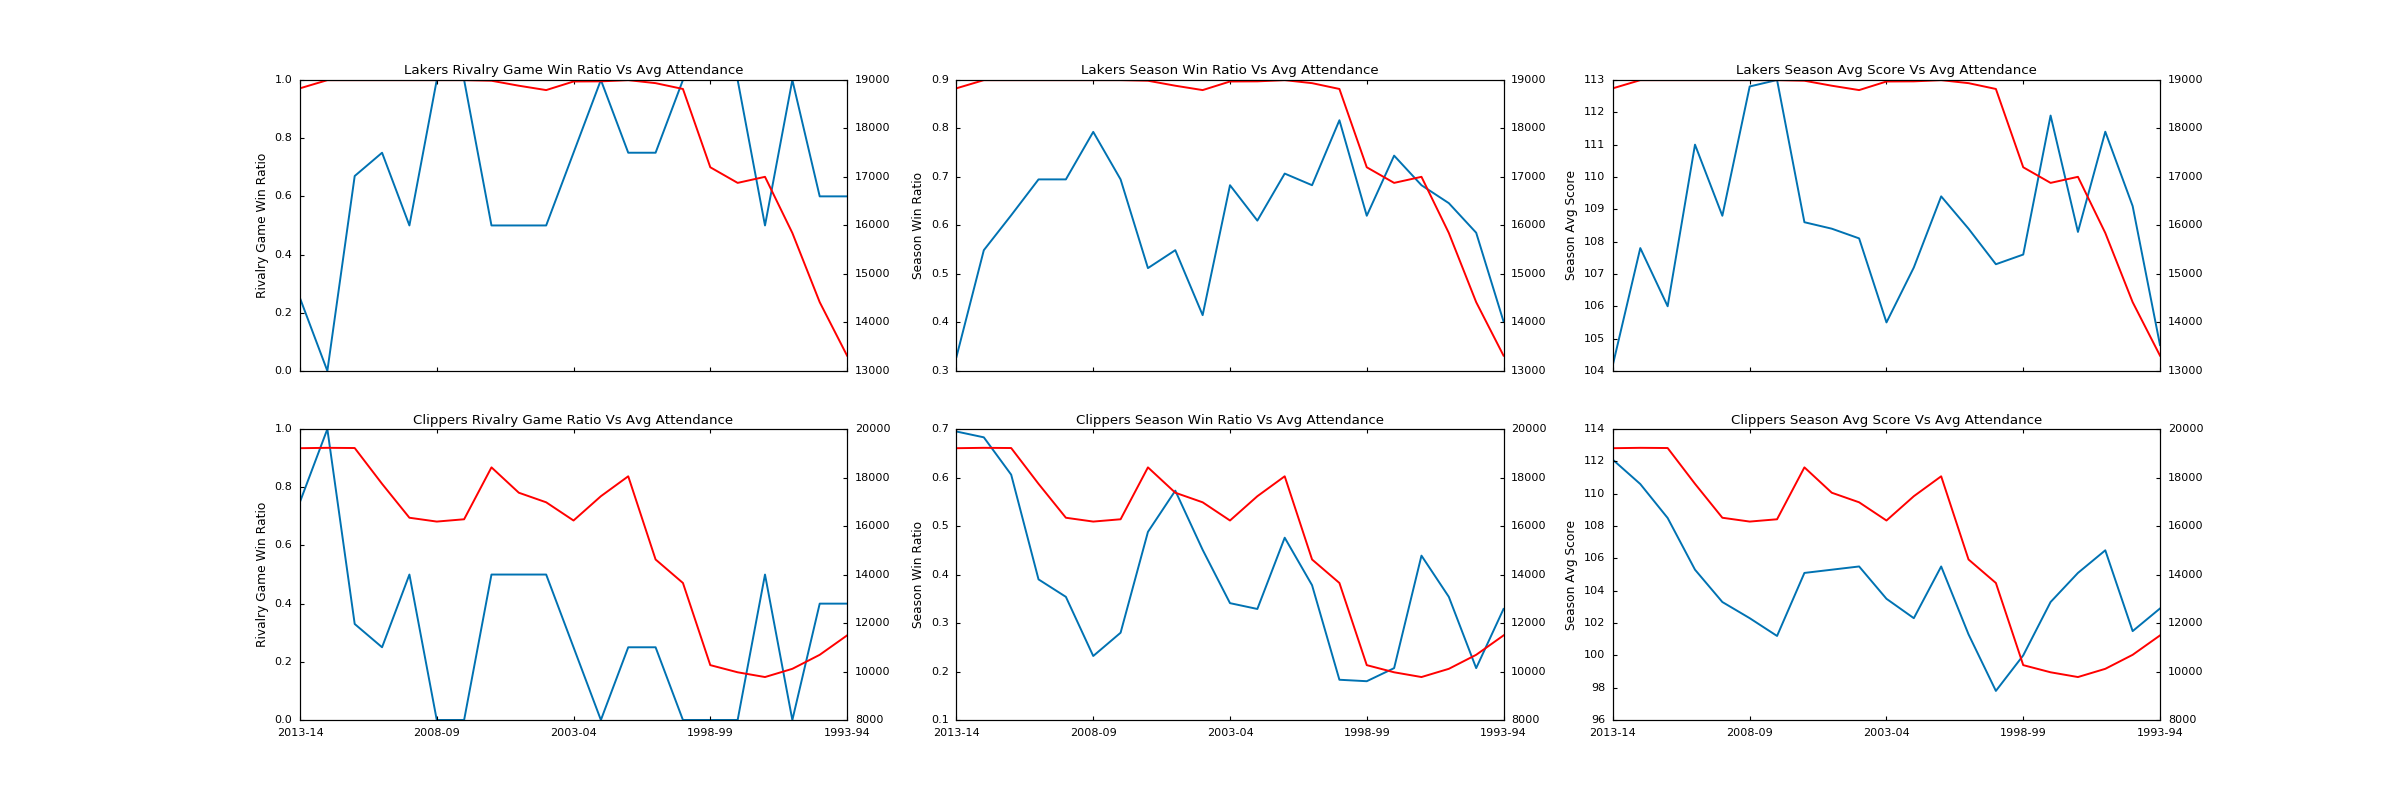
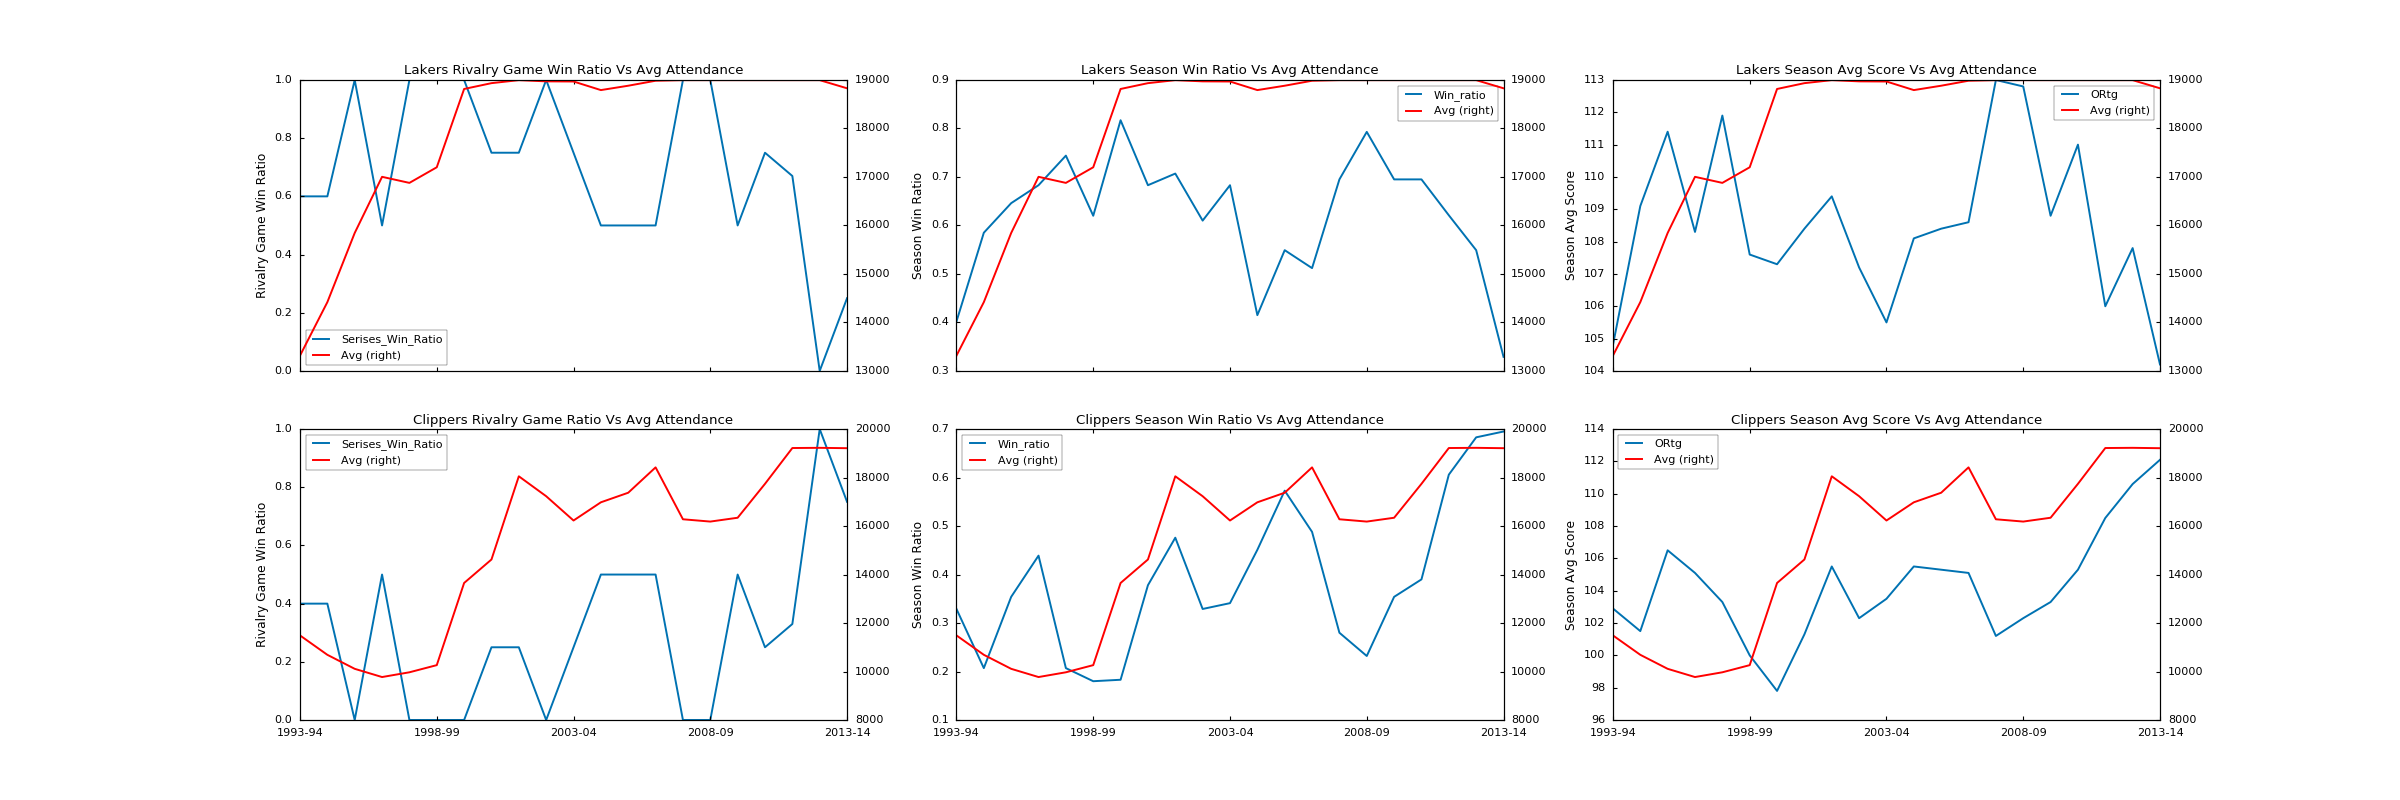
3.31

diff --git a/Week-4/Assigment#4_upload.py b/Week-4/Assigment#4_upload.py
@@ -1,0 +1,81 @@
+
+# coding: utf-8
+
+# In[67]:
+
+import pandas as pd
+import numpy as np
+import matplotlib.pyplot as plt
+
+get_ipython().magic(u'matplotlib notebook')
+plt.style.use('seaborn-notebook')
+
+
+# In[205]:
+
+LA_att = pd.read_csv('C:\Users\RWang3\Documents\GitHub\Applied-Plotting-Charting-Data-Representation-in-Python\Week-4\LA Att.csv',delimiter=",",thousands=',')
+LA_win = pd.read_csv('C:\Users\RWang3\Documents\GitHub\Applied-Plotting-Charting-Data-Representation-in-Python\Week-4\LA Stats.csv',delimiter=",",thousands=',')
+LA_Data = pd.merge(LA_win, LA_att, on=['Seasons', 'Team'], how='left')
+LA_Data = LA_Data.rename(columns={'W/L%': 'Win_ratio', 'Serises Win Ratio': 'Serises_Win_Ratio'})
+LA_Data.head()
+
+
+# In[206]:
+
+
+LA_ravial_Att=LA_Data[['Seasons','Team','Serises_Win_Ratio','Avg']]
+LA_ravial_Att.set_index('Seasons',inplace=True)
+LA_ravial_Att.index.name = None
+LAL = LA_ravial_Att[LA_ravial_Att['Team'] =='LAL']
+LAC=LA_ravial_Att[LA_ravial_Att['Team'] =='LAC']
+
+LA_Win_Att=LA_Data[['Seasons','Team','Win_ratio','Avg']]
+LA_Win_Att.set_index('Seasons',inplace=True)
+LA_Win_Att.index.name = None
+LAL_win = LA_Win_Att[LA_Win_Att['Team'] =='LAL']
+LAC_win=LA_Win_Att[LA_Win_Att['Team'] =='LAC']
+
+Score_att = LA_Data[['Seasons','Team','ORtg','Avg']]
+Score_att.set_index('Seasons',inplace=True)
+Score_att.index.name = None
+LAL_att = Score_att[Score_att['Team'] =='LAL']
+LAC_att = Score_att[Score_att['Team'] =='LAC']
+
+
+# In[207]:
+
+fig, axes = plt.subplots(nrows=2, ncols=3,figsize=(30, 10))
+
+LAL.Serises_Win_Ratio.plot(ax=axes[0,0],legend=True);
+axes[0,0].set_ylabel('Rivalry Game Win Ratio')
+axes[0,0].set_title('Lakers Rivalry Game Win Ratio Vs Avg Attendance')
+LAL.Avg.plot(secondary_y=True, style='r',ax=axes[0,0],legend=True)
+LAC.Serises_Win_Ratio.plot(ax=axes[1,0],legend=True);
+axes[1,0].set_ylabel('Rivalry Game Win Ratio')
+axes[1,0].set_title('Clippers Rivalry Game Ratio Vs Avg Attendance')
+LAC.Avg.plot(secondary_y=True, style='r',ax=axes[1,0],legend=True)
+
+
+LAL_att.ORtg.plot(ax=axes[0,2],legend=True); 
+axes[0,2].set_ylabel('Season Avg Score')
+axes[0,2].set_title('Lakers Season Avg Score Vs Avg Attendance')
+LAL_att.Avg.plot(secondary_y=True, style='r',ax=axes[0,2],legend=True)
+LAC_att.ORtg.plot(ax=axes[1,2],legend=True); 
+axes[1,2].set_ylabel('Season Avg Score')
+axes[1,2].set_title('Clippers Season Avg Score Vs Avg Attendance')
+LAC_att.Avg.plot(secondary_y=True, style='r',ax=axes[1,2],legend=True)
+
+LAL_win.Win_ratio.plot(ax=axes[0,1],legend=True); 
+axes[0,1].set_ylabel('Season Win Ratio')
+axes[0,1].set_title('Lakers Season Win Ratio Vs Avg Attendance')
+LAL_win.Avg.plot(secondary_y=True, style='r',ax=axes[0,1],legend=True)
+LAC_win.Win_ratio.plot(ax=axes[1,1],legend=True); 
+axes[1,1].set_ylabel('Season Win Ratio')
+axes[1,1].set_title('Clippers Season Win Ratio Vs Avg Attendance')
+LAC_win.Avg.plot(secondary_y=True, style='r',ax=axes[1,1],legend=True)
+
+
+# In[ ]:
+
+
+
